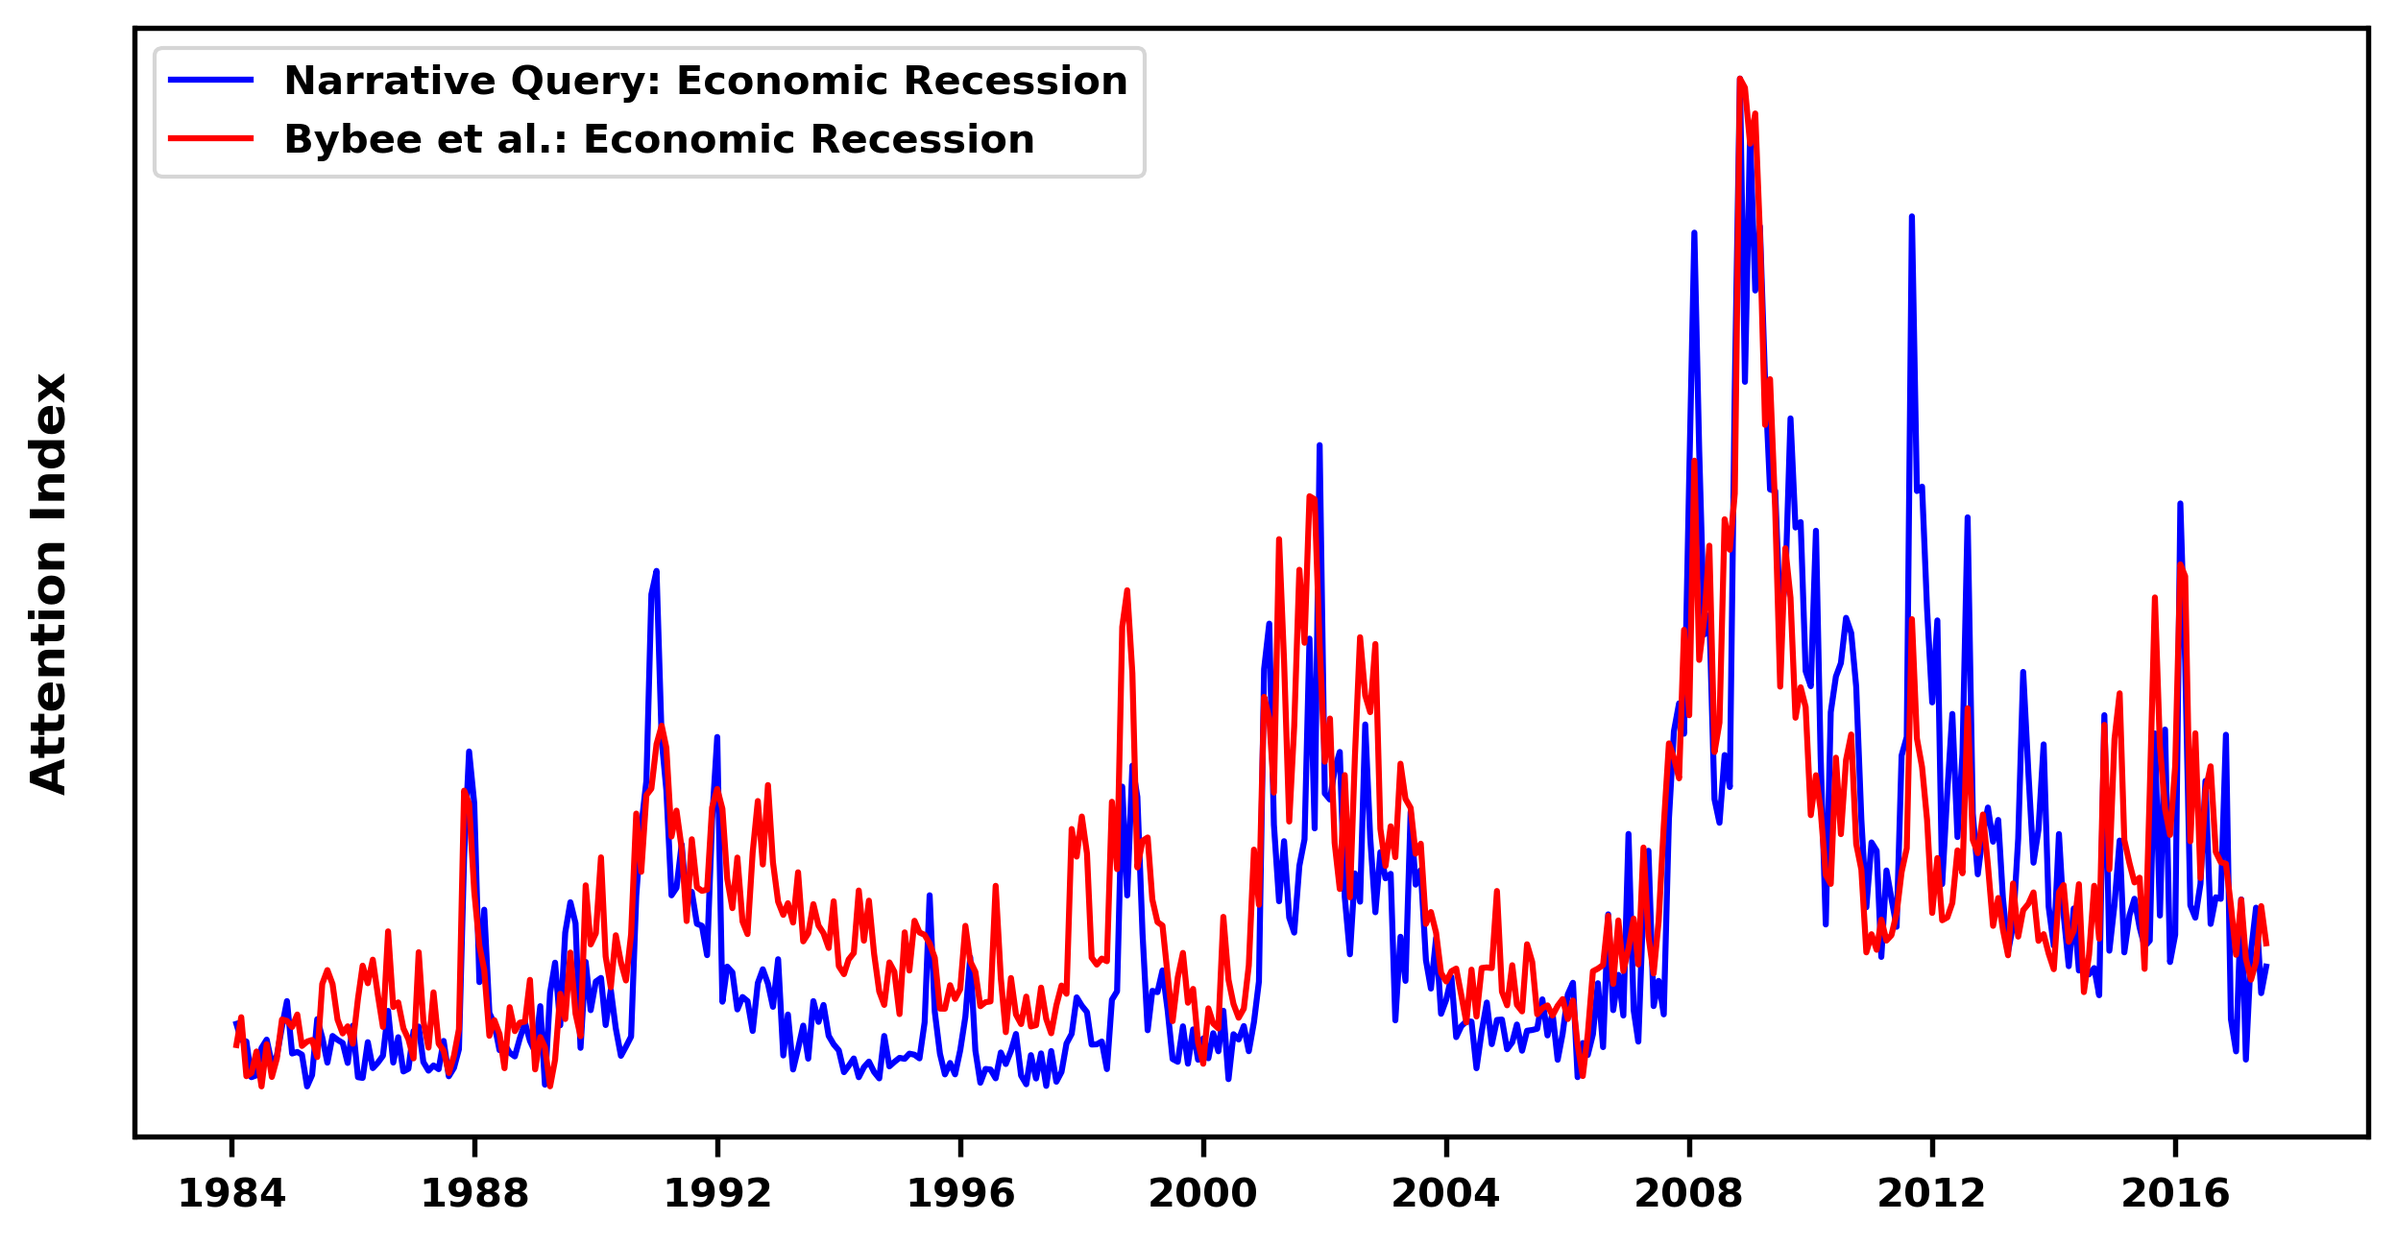
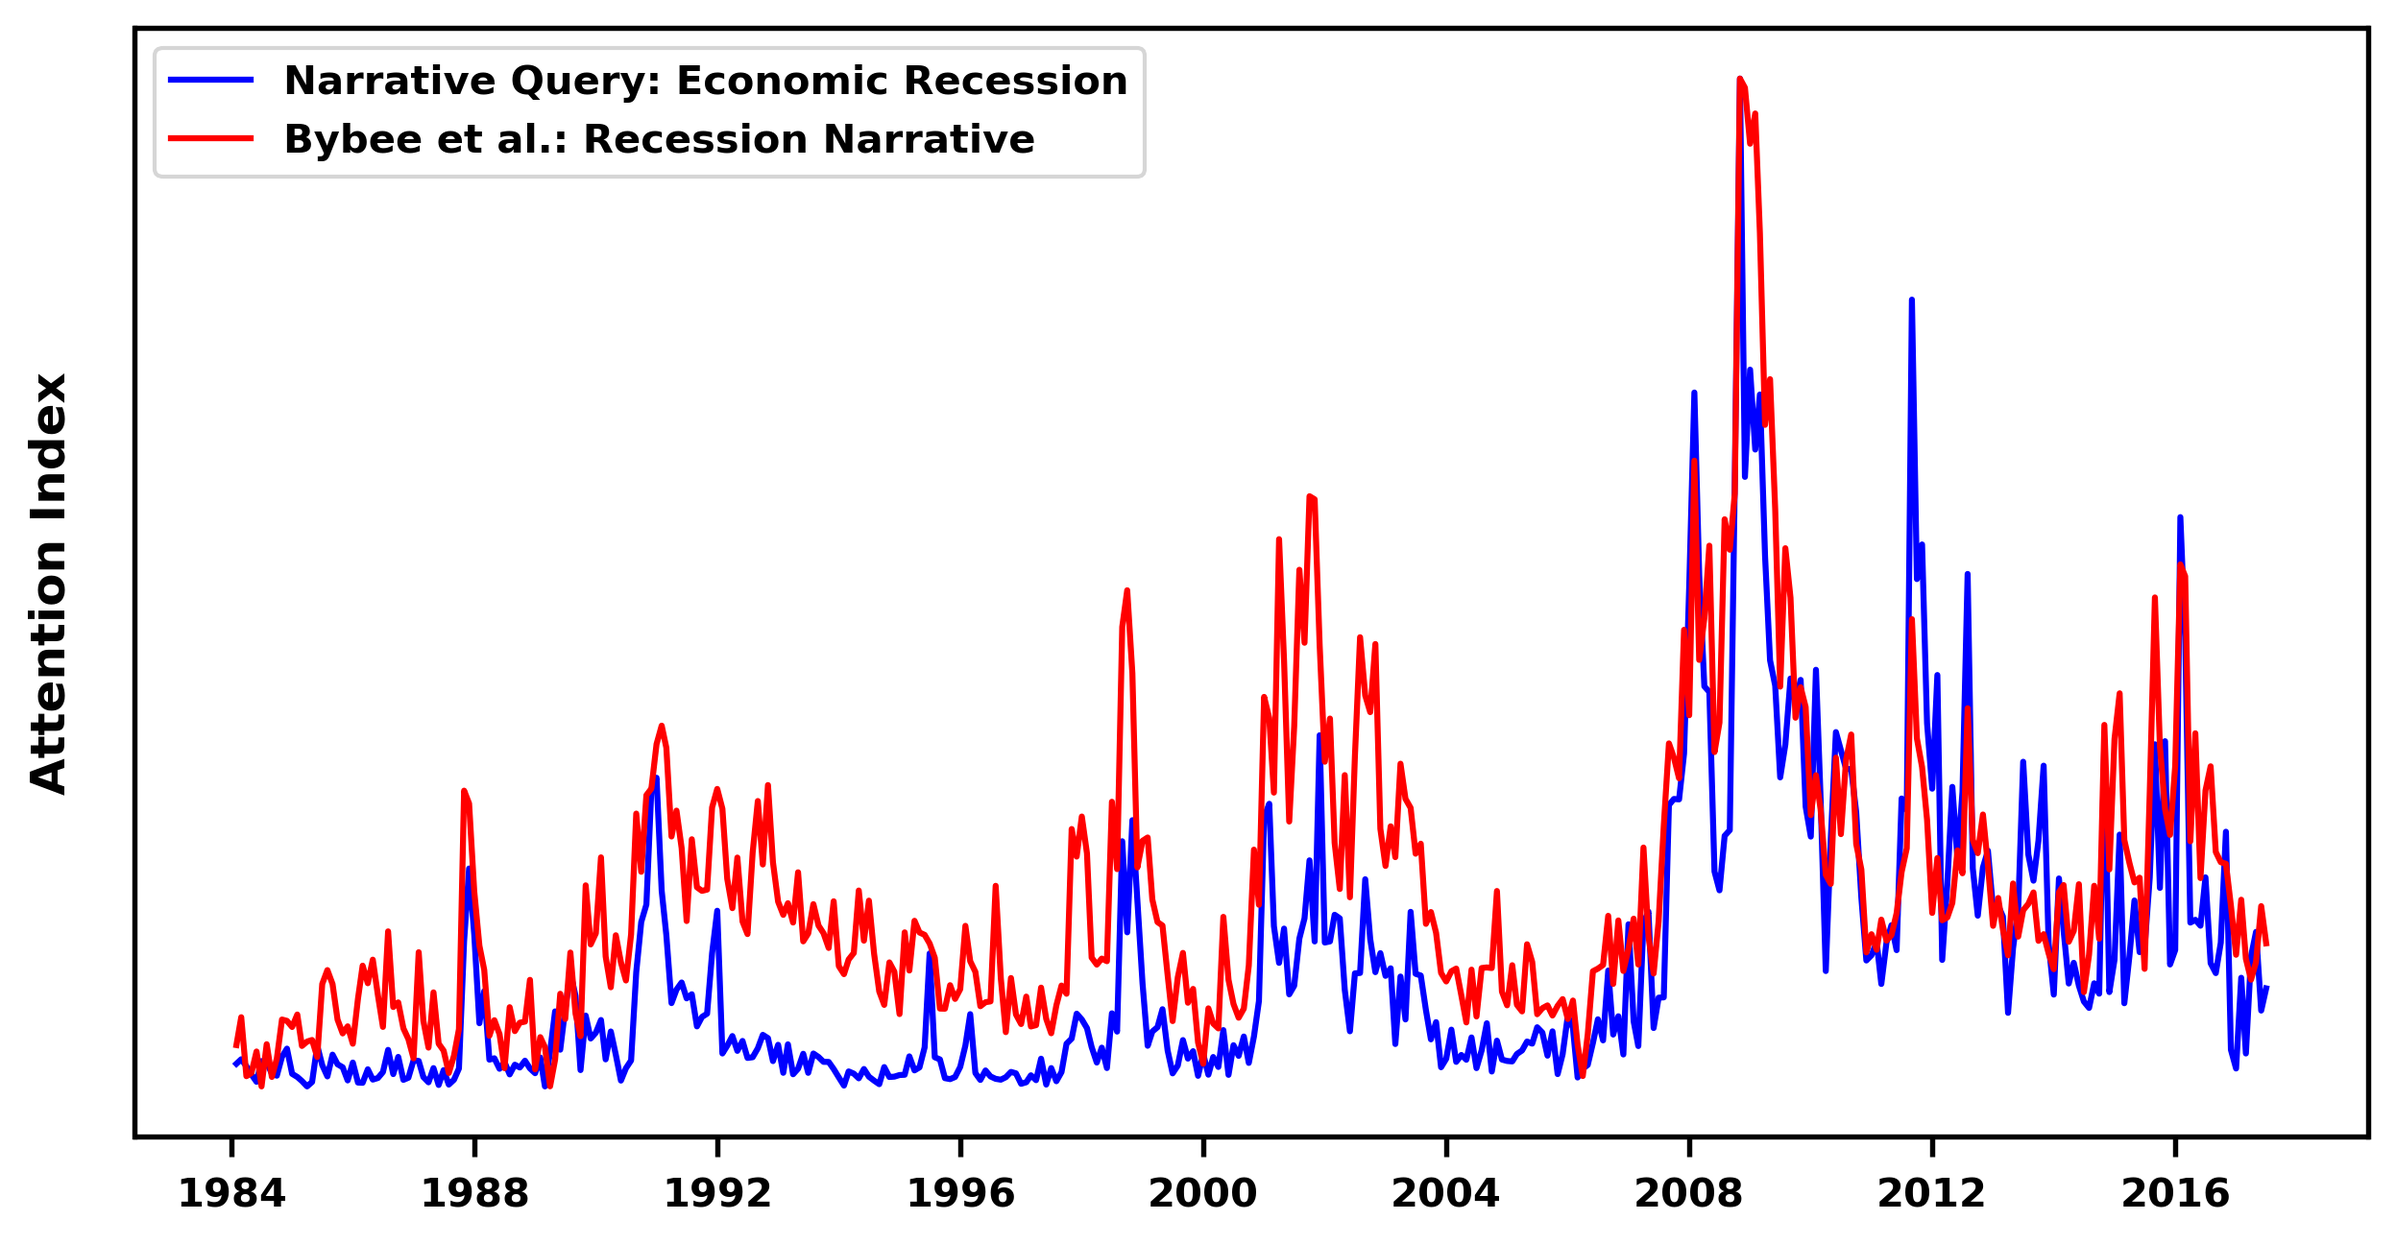
updated percentile values and plot for FSI EPU etc.

diff --git a/exec_research/exec_generate/generate_paper_plot.py b/exec_research/exec_generate/generate_paper_plot.py
@@ -139,14 +139,14 @@ if __name__ == "__main__":
     # index = generate._standardize(index)
     # generate.save(query=query, expanded_query=expanded_query, p_val=p_val, threshold=threshold, pearson=0, index_paper=index[['relu_score']], index_research=index[['relu_score', 'relu_norm_score', 'agg_norm_score', 'norm_score']], index_name_paper=['Narrative Query: COVID-19'], index_name_research=['Transformed (Relu then Agg)', 'Transformed (Agg then Relu)', 'Non-Transformed (Agg)', 'Non-Transformed (No Agg)'], output=f'{type}_covid19_index')
 
-    # ------------------------------------------------------------------------------------------------------------------------------------------------------------------------------------------------
-    # ------------------------------------------------------------------------------------------------------------------------------------------------------------------------------------------------
-    print("-" * 120)
-    query = 'Electric Vehicles'
-    generate = GenEmb(query=query, expand=expand, info=info, vector_data=vector_data, vector_column=vector_column, article_data=article_data, interval=interval, p_val=p_val)
-    index, expanded_query, threshold = generate.generate_emb()
-    index = generate._join_index(index=index, interval=interval, file_path='tsla.parquet.brotli')
-    generate.save(query=query, expanded_query=expanded_query, p_val=p_val, threshold=threshold, pearson=0, index_paper=index[['relu_score', 'official']], index_research=index[['relu_score', 'relu_norm_score', 'agg_norm_score', 'norm_score']], index_name_paper=['Narrative Query: Electric Vehicles', 'WRDS: TSLA Close Price'], index_name_research=['Transformed (Relu then Agg)', 'Transformed (Agg then Relu)', 'Non-Transformed (Agg)', 'Non-Transformed (No Agg)'], output=f'{type}_ev_index')
+    # # ------------------------------------------------------------------------------------------------------------------------------------------------------------------------------------------------
+    # # ------------------------------------------------------------------------------------------------------------------------------------------------------------------------------------------------
+    # print("-" * 120)
+    # query = 'Electric Vehicles'
+    # generate = GenEmb(query=query, expand=expand, info=info, vector_data=vector_data, vector_column=vector_column, article_data=article_data, interval=interval, p_val=p_val)
+    # index, expanded_query, threshold = generate.generate_emb()
+    # index = generate._join_index(index=index, interval=interval, file_path='tsla.parquet.brotli')
+    # generate.save(query=query, expanded_query=expanded_query, p_val=p_val, threshold=threshold, pearson=0, index_paper=index[['relu_score', 'official']], index_research=index[['relu_score', 'relu_norm_score', 'agg_norm_score', 'norm_score']], index_name_paper=['Narrative Query: Electric Vehicles', 'WRDS: TSLA Close Price'], index_name_research=['Transformed (Relu then Agg)', 'Transformed (Agg then Relu)', 'Non-Transformed (Agg)', 'Non-Transformed (No Agg)'], output=f'{type}_ev_index')
 
     # ------------------------------------------------------------------------------------------------------------------------------------------------------------------------------------------------
     # ------------------------------------------------------------------------------------------------------------------------------------------------------------------------------------------------
@@ -155,16 +155,16 @@ if __name__ == "__main__":
     generate = GenEmb(query=query, expand=expand, info=info, vector_data=vector_data, vector_column=vector_column, article_data=article_data, interval=interval, p_val=p_val)
     index, expanded_query, threshold = generate.generate_emb()
     index, pearson_corr = generate._compare_index(index=index, interval=interval, file_path='epu.parquet.brotli')
-    generate.save(query=query, expanded_query=expanded_query, p_val=p_val, threshold=threshold, pearson=pearson_corr, index_paper=index[['relu_score', 'official']], index_research=index[['relu_score', 'relu_norm_score', 'agg_norm_score', 'norm_score']], index_name_paper=['Narrative Query: US EPU', 'Baker et al.: US EPU'], index_name_research=['Transformed (Relu then Agg)', 'Transformed (Agg then Relu)', 'Non-Transformed (Agg)', 'Non-Transformed (No Agg)'], output=f'{type}_usepu_index')
+    generate.save(query=query, expanded_query=expanded_query, p_val=p_val, threshold=threshold, pearson=pearson_corr, index_paper=index[['relu_score', 'official']], index_research=index[['relu_score', 'relu_norm_score', 'agg_norm_score', 'norm_score']], index_name_paper=['Narrative Query: US Economic Policy Uncertainty', 'Baker et al.: US Economic Policy Uncertainty'], index_name_research=['Transformed (Relu then Agg)', 'Transformed (Agg then Relu)', 'Non-Transformed (Agg)', 'Non-Transformed (No Agg)'], output=f'{type}_usepu_index')
 
-    # ------------------------------------------------------------------------------------------------------------------------------------------------------------------------------------------------
-    # ------------------------------------------------------------------------------------------------------------------------------------------------------------------------------------------------
-    print("-" * 120)
-    query = 'Inflation'
-    generate = GenEmb(query=query, expand=expand, info=info, vector_data=vector_data, vector_column=vector_column, article_data=article_data, interval=interval, p_val=p_val)
-    index, expanded_query, threshold = generate.generate_emb()
-    index, pearson_corr = generate._compare_index(index=index, interval=interval, file_path='ir.parquet.brotli')
-    generate.save(query=query, expanded_query=expanded_query, p_val=p_val, threshold=threshold, pearson=pearson_corr, index_paper=index[['relu_score', 'official']], index_research=index[['relu_score', 'relu_norm_score', 'agg_norm_score', 'norm_score']], index_name_paper=['Narrative Query: Inflation', 'FRED: 5-Year Breakeven Inflation Rate'], index_name_research=['Transformed (Relu then Agg)', 'Transformed (Agg then Relu)', 'Non-Transformed (Agg)', 'Non-Transformed (No Agg)'], output=f'{type}_inflation_index')
+    # # ------------------------------------------------------------------------------------------------------------------------------------------------------------------------------------------------
+    # # ------------------------------------------------------------------------------------------------------------------------------------------------------------------------------------------------
+    # print("-" * 120)
+    # query = 'Inflation'
+    # generate = GenEmb(query=query, expand=expand, info=info, vector_data=vector_data, vector_column=vector_column, article_data=article_data, interval=interval, p_val=p_val)
+    # index, expanded_query, threshold = generate.generate_emb()
+    # index, pearson_corr = generate._compare_index(index=index, interval=interval, file_path='ir.parquet.brotli')
+    # generate.save(query=query, expanded_query=expanded_query, p_val=p_val, threshold=threshold, pearson=pearson_corr, index_paper=index[['relu_score', 'official']], index_research=index[['relu_score', 'relu_norm_score', 'agg_norm_score', 'norm_score']], index_name_paper=['Narrative Query: Inflation', 'FRED: 5-Year Breakeven Inflation Rate'], index_name_research=['Transformed (Relu then Agg)', 'Transformed (Agg then Relu)', 'Non-Transformed (Agg)', 'Non-Transformed (No Agg)'], output=f'{type}_inflation_index')
 
     # ------------------------------------------------------------------------------------------------------------------------------------------------------------------------------------------------
     # ------------------------------------------------------------------------------------------------------------------------------------------------------------------------------------------------
@@ -173,25 +173,25 @@ if __name__ == "__main__":
     generate = GenEmb(query=query, expand=expand, info=info, vector_data=vector_data, vector_column=vector_column, article_data=article_data, interval=interval, p_val=p_val)
     index, expanded_query, threshold = generate.generate_emb()
     index, pearson_corr = generate._compare_index(index=index, interval=interval, file_path='recession.parquet.brotli')
-    generate.save(query=query, expanded_query=expanded_query, p_val=p_val, threshold=threshold, pearson=pearson_corr, index_paper=index[['relu_score', 'official']], index_research=index[['relu_score', 'relu_norm_score', 'agg_norm_score', 'norm_score']], index_name_paper=['Narrative Query: Economic Recession', 'Bybee et al.: Economic Recession'], index_name_research=['Transformed (Relu then Agg)', 'Transformed (Agg then Relu)', 'Non-Transformed (Agg)', 'Non-Transformed (No Agg)'], output=f'{type}_economicrecession_index')
+    generate.save(query=query, expanded_query=expanded_query, p_val=p_val, threshold=threshold, pearson=pearson_corr, index_paper=index[['relu_score', 'official']], index_research=index[['relu_score', 'relu_norm_score', 'agg_norm_score', 'norm_score']], index_name_paper=['Narrative Query: Economic Recession', 'Bybee et al.: Recession Narrative'], index_name_research=['Transformed (Relu then Agg)', 'Transformed (Agg then Relu)', 'Non-Transformed (Agg)', 'Non-Transformed (No Agg)'], output=f'{type}_economicrecession_index')
 
     # ------------------------------------------------------------------------------------------------------------------------------------------------------------------------------------------------
     # ------------------------------------------------------------------------------------------------------------------------------------------------------------------------------------------------
     print("-" * 120)
     query = 'Systemic Financial Stress'
-    generate = GenEmb(query=query, expand=expand, info=info, vector_data=vector_data, vector_column=vector_column, article_data=article_data, interval=interval, p_val=p_val)
+    generate = GenEmb(query=query, expand=expand, info=info, vector_data=vector_data, vector_column=vector_column, article_data=article_data, interval=interval, p_val=0.75)
     index, expanded_query, threshold = generate.generate_emb()
     index, pearson_corr = generate._compare_index(index=index, interval=interval, file_path='fsi.parquet.brotli')
-    generate.save(query=query, expanded_query=expanded_query, p_val=p_val, threshold=threshold, pearson=pearson_corr, index_paper=index[['relu_score', 'official']], index_research=index[['relu_score', 'relu_norm_score', 'agg_norm_score', 'norm_score']], index_name_paper=['Narrative Query: Systemic Financial Stress', 'OFR: Financial Stress'], index_name_research=['Transformed (Relu then Agg)', 'Transformed (Agg then Relu)', 'Non-Transformed (Agg)', 'Non-Transformed (No Agg)'], output=f'{type}_fsi_index')
+    generate.save(query=query, expanded_query=expanded_query, p_val=0.75, threshold=threshold, pearson=pearson_corr, index_paper=index[['relu_score', 'official']], index_research=index[['relu_score', 'relu_norm_score', 'agg_norm_score', 'norm_score']], index_name_paper=['Narrative Query: Systemic Financial Stress', 'OFR: Financial Stress'], index_name_research=['Transformed (Relu then Agg)', 'Transformed (Agg then Relu)', 'Non-Transformed (Agg)', 'Non-Transformed (No Agg)'], output=f'{type}_fsi_index')
 
     # ------------------------------------------------------------------------------------------------------------------------------------------------------------------------------------------------
     # ------------------------------------------------------------------------------------------------------------------------------------------------------------------------------------------------
     print("-" * 120)
     query = 'Fear Index'
-    generate = GenEmb(query=query, expand=expand, info=info, vector_data=vector_data, vector_column=vector_column, article_data=article_data, interval=interval, p_val=p_val)
+    generate = GenEmb(query=query, expand=expand, info=info, vector_data=vector_data, vector_column=vector_column, article_data=article_data, interval=interval, p_val=0.25)
     index, expanded_query, threshold = generate.generate_emb()
     index, pearson_corr = generate._compare_index(index=index, interval=interval, file_path='vix_option.parquet.brotli')
-    generate.save(query=query, expanded_query=expanded_query, p_val=p_val, threshold=threshold, pearson=pearson_corr, index_paper=index[['relu_score', 'official']], index_research=index[['relu_score', 'relu_norm_score', 'agg_norm_score', 'norm_score']], index_name_paper=['Narrative Query: Fear Index', 'FRED: CBOE Volatility'], index_name_research=['Transformed (Relu then Agg)', 'Transformed (Agg then Relu)', 'Non-Transformed (Agg)', 'Non-Transformed (No Agg)'], output=f'{type}_vix_index')
+    generate.save(query=query, expanded_query=expanded_query, p_val=0.25, threshold=threshold, pearson=pearson_corr, index_paper=index[['relu_score', 'official']], index_research=index[['relu_score', 'relu_norm_score', 'agg_norm_score', 'norm_score']], index_name_paper=['Narrative Query: Fear Index', 'FRED: CBOE Volatility'], index_name_research=['Transformed (Relu then Agg)', 'Transformed (Agg then Relu)', 'Non-Transformed (Agg)', 'Non-Transformed (No Agg)'], output=f'{type}_vix_index')
 
     # # ------------------------------------------------------------------------------------------------------------------------------------------------------------------------------------------------
     # # ------------------------------------------------------------------------------------------------------------------------------------------------------------------------------------------------

diff --git a/exec_research/class_generate/gen_emb.py b/exec_research/class_generate/gen_emb.py
@@ -175,18 +175,19 @@ class GenEmb:
 
     # Save index, query, etc. to folder
     @staticmethod
-    def save(query, expanded_query, p_val, threshold, pearson, index_paper, index_research, index_name_paper, index_name_research, output):
-        # Make Dir
-        plot_dir = f'../../view_attention/{output}'
-        os.makedirs(plot_dir, exist_ok=True)
+    def save(query, expanded_query, p_val, threshold, pearson, index_paper, index_research, index_name_paper, index_name_research, output, save=True):
+        if save:
+            # Make Dir
+            plot_dir = f'../../view_attention/{output}'
+            os.makedirs(plot_dir, exist_ok=True)
 
-        # Save prompt and label
-        with open(f'../../view_attention/{output}/{output}.txt', 'w') as file:
-            file.write(f"Query: {query}\n\n")
-            file.write(f"Expanded Query: {expanded_query}\n\n")
-            file.write(f"P-Value: {p_val}\n\n")
-            file.write(f"Threshold: {threshold}\n\n")
-            file.write(f"Pearson Correlation: {pearson}\n\n")
+            # Save prompt and label
+            with open(f'../../view_attention/{output}/{output}.txt', 'w') as file:
+                file.write(f"Query: {query}\n\n")
+                file.write(f"Expanded Query: {expanded_query}\n\n")
+                file.write(f"P-Value: {p_val}\n\n")
+                file.write(f"Threshold: {threshold}\n\n")
+                file.write(f"Pearson Correlation: {pearson}\n\n")
 
         # Get plot
         plt.figure(figsize=(10, 5))
@@ -211,9 +212,10 @@ class GenEmb:
         plt.tick_params(axis='y', which='both', left=False, labelleft=False, pad=10)
         plt.grid(False)
 
-        # Save figure
-        plt.savefig(f'../../view_attention/{output}/{output}.png', format='png', dpi=300, bbox_inches='tight')
-        plt.show()
+        if save:
+            # Save figure
+            plt.savefig(f'../../view_attention/{output}/{output}.png', format='png', dpi=300, bbox_inches='tight')
+            plt.show()
 
         # Get plot
         plt.figure(figsize=(10, 5))
@@ -238,8 +240,9 @@ class GenEmb:
         plt.tick_params(axis='y', which='both', left=False, labelleft=False, pad=10)
         plt.grid(False)
 
-        # Save figure
-        plt.savefig(f'../../view_attention/{output}/compare.png', format='png', dpi=300, bbox_inches='tight')
+        if save:
+            # Save figure
+            plt.savefig(f'../../view_attention/{output}/compare.png', format='png', dpi=300, bbox_inches='tight')
         plt.show()
         plt.close()
         return None
